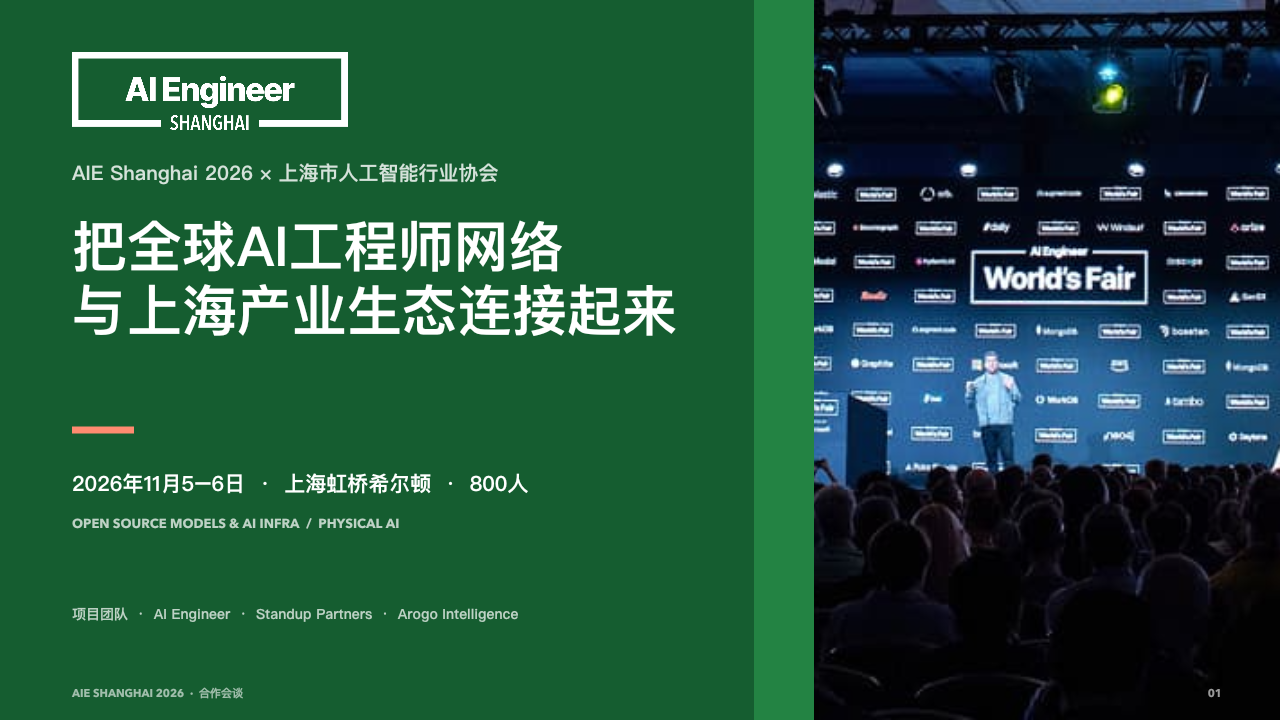
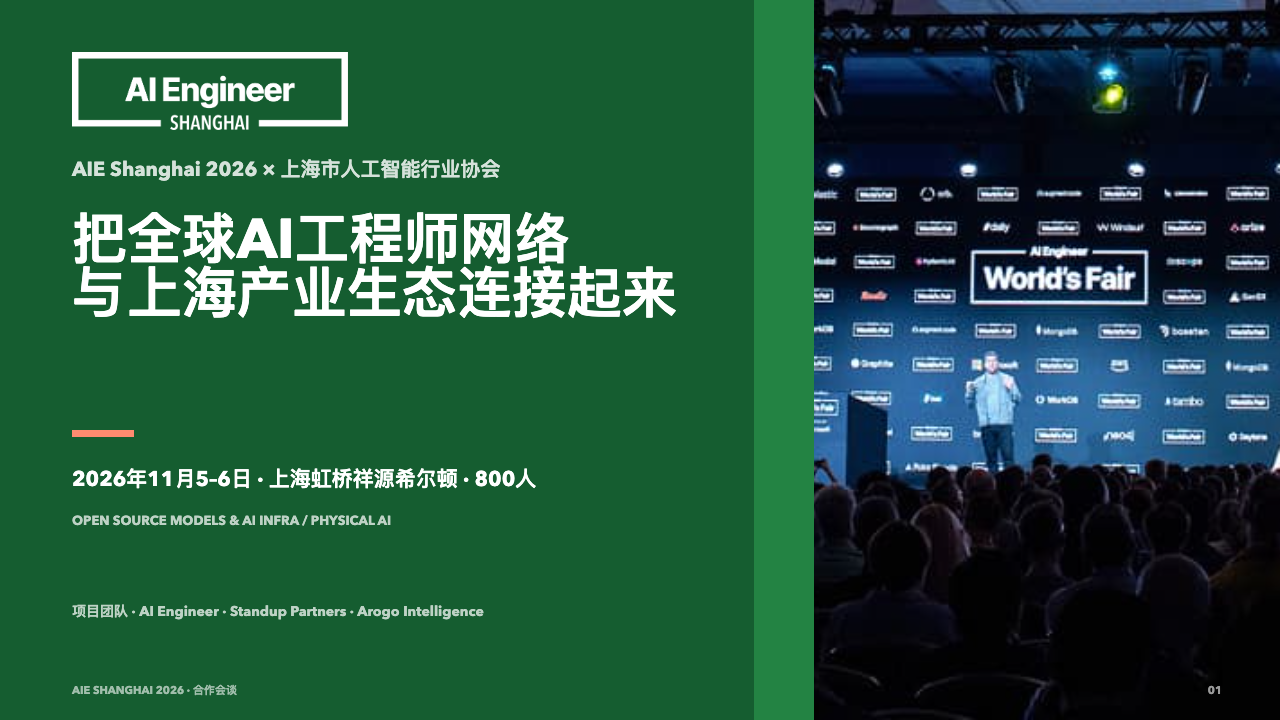
Address partner feedback in AIE Shanghai deck

diff --git a/client/src/pages/AieShanghaiDeckSlides.tsx b/client/src/pages/AieShanghaiDeckSlides.tsx
@@ -30,9 +30,10 @@ const FONT =
 export const SLIDE_META = [
   "把全球AI工程师网络与上海产业生态连接起来",
   "上海站由三组长期积累共同推进",
-  "孟颖、Yuzheng和Jolin各自负责一块不可替代的工作",
+  "李孟颖、孙煜征和盛玥各自负责一块不可替代的工作",
   "AIE把工程师、研究者、创始人与CTO带到同一个技术现场",
   "上海站不是一场海外会议的平移",
+  "不只把全球资源带进来，也帮助中国AI企业走向全球",
   "在协会已有平台上，再增加一层高密度工程实践交流",
   "上海站已启动，并进入更深的本地协作阶段",
   "合作方案应该从协会会员企业的真实需求出发",
@@ -265,7 +266,7 @@ function Slide01() {
       </Text>
       <Rule x={72} y={430} w={62} h={7} color={C.coral} />
       <Text x={72} y={468} w={650} h={32} size={21} color={C.white} weight={700}>
-        2026年11月5–6日  ·  上海虹桥希尔顿  ·  800人
+        2026年11月5–6日  ·  上海虹桥祥源希尔顿  ·  800人
       </Text>
       <Text x={72} y={514} w={650} h={24} size={13} color="rgba(255,255,255,.72)" weight={700}>
         OPEN SOURCE MODELS & AI INFRA  /  PHYSICAL AI
@@ -317,7 +318,7 @@ function TeamColumn({ x, name, identity, proof, role, color }: { x: number; name
   return (
     <div>
       <Rect x={x} y={190} w={340} h={8} color={color} />
-      <Text x={x} y={222} w={340} h={42} size={29} color={C.ink} weight={700}>{name}</Text>
+      <Text x={x} y={222} w={340} h={42} size={24} color={C.ink} weight={700}>{name}</Text>
       <Text x={x} y={274} w={340} h={52} size={17} color={color} weight={700} lineHeight={1.22}>{identity}</Text>
       <Rule x={x} y={340} w={340} />
       <Text x={x} y={368} w={340} h={126} size={19} color={C.body} lineHeight={1.28}>{proof}</Text>
@@ -330,10 +331,10 @@ function TeamColumn({ x, name, identity, proof, role, color }: { x: number; name
 function Slide03() {
   return (
     <SlideShell page={3} section="02  /  CORE TEAM">
-      <SlideTitle size={43}>孟颖、Yuzheng和Jolin，各自负责一块不可替代的工作</SlideTitle>
-      <TeamColumn x={72} name="李孟颖  Mengying Li" identity="增长 · 数据 · 商业化" proof="曾在Notion、MotherDuck、Braintrust等科技公司负责增长与数据；长期服务developer tools与B2B SaaS，也是a16z Scout和天使投资人。" role="AIE Shanghai：国际增长、赞助商合作、数据与商业化机制" color={C.brand} />
-      <TeamColumn x={470} name="孙煜征  Yuzheng Sun" identity="PROGRAM · 技术内容 · 中美连接" proof="曾任Amazon经济学家、Meta数据科学家、腾讯IEG数据与AI副总监；OpenAI收购团队早期成员；现为Superlinear Academy创始人。" role="AIE Shanghai：program方向、内容判断、技术嘉宾与开发者社区连接" color={C.deep} />
-      <TeamColumn x={868} name="Jolin  ·  Arogo" identity="上海产业合作 · 项目落地" proof="13年微软中国工作经历，覆盖解决方案销售、企业客户与总裁办公室业务运营；组织过多次2,000+人大型活动。" role="AIE Shanghai：本地企业与产业合作、高层沟通、会务与落地" color={C.coral} />
+      <SlideTitle size={43}>李孟颖、孙煜征和盛玥，各自负责一块不可替代的工作</SlideTitle>
+      <TeamColumn x={72} name="李孟颖 · Standup Partners" identity="增长 · 数据 · 商业化" proof="曾在Notion、MotherDuck、Braintrust等科技公司负责增长与数据；长期服务developer tools与B2B SaaS，也是a16z Scout和天使投资人。" role="AIE Shanghai：国际增长、赞助商合作、数据与商业化机制" color={C.brand} />
+      <TeamColumn x={470} name="孙煜征 · Standup Partners" identity="PROGRAM · 技术内容 · 中美连接" proof="曾任Amazon经济学家、Meta数据科学家、腾讯IEG数据与AI副总监；OpenAI收购团队早期成员；现为Superlinear Academy创始人。" role="AIE Shanghai：program方向、内容统筹、技术嘉宾与开发者社区连接" color={C.deep} />
+      <TeamColumn x={868} name="盛玥 · Arogo Intelligence" identity="上海产业合作 · 项目落地" proof="13年微软中国工作经历，曾担任解决方案销售、企业客户经理，并负责总裁办公室业务运营；组织过多次2,000+人大型活动。" role="AIE Shanghai：本地企业与产业合作、高层沟通、会务与落地" color={C.coral} />
     </SlideShell>
   );
 }
@@ -380,24 +381,55 @@ function Slide05() {
       <Text x={72} y={86} w={1136} h={76} size={51} color={C.white} weight={700} lineHeight={1.02}>上海站不是一场海外会议的平移</Text>
       <Rule x={640} y={208} w={2} h={280} color="rgba(255,255,255,.35)" />
       <Rect x={633} y={337} w={16} h={16} color={C.coral} />
-      <Text x={92} y={220} w={460} h={34} size={21} color="rgba(255,255,255,.72)" weight={700}>中国团队带到现场</Text>
+      <Text x={92} y={220} w={460} h={34} size={21} color="rgba(255,255,255,.72)" weight={700}>中国工程师带来的实践</Text>
       <Text x={92} y={274} w={460} h={212} size={34} color={C.white} weight={700} lineHeight={1.22}>{"产业条件与算力\n数据、评测与场景\n规模化部署经验\n快速演进的应用生态"}</Text>
-      <Text x={724} y={220} w={460} h={34} size={21} color="rgba(255,255,255,.72)" weight={700}>国际团队带到现场</Text>
+      <Text x={724} y={220} w={460} h={34} size={21} color="rgba(255,255,255,.72)" weight={700}>国际工程师带来的实践</Text>
       <Text x={724} y={274} w={460} h={212} size={34} color={C.white} weight={700} lineHeight={1.22}>{"模型、推理与架构\n开发者工具与平台\n生产系统可靠性\n全球工程师同行网络"}</Text>
       <Rect x={72} y={540} w={1136} h={88} color={C.deep} />
-      <Text x={104} y={558} w={1072} h={52} size={29} color={C.white} weight={700} align="center" valign="center">让中西方团队围绕同一组工程问题，面对面展示、比较与追问。</Text>
+      <Text x={104} y={558} w={1072} h={52} size={29} color={C.white} weight={700} align="center" valign="center">让中西方工程师围绕同一组工程问题，面对面展示、比较与追问。</Text>
     </SlideShell>
   );
 }
 
 function Slide06() {
+  const paths = [
+    { x: 72, number: "01", title: "直接接触全球网络", body: "与模型、AI基础设施、开发者平台和Physical AI企业的技术负责人同场交流。", color: C.brand },
+    { x: 367, number: "02", title: "延伸技术与商业合作", body: "从工程讨论出发，连接潜在的海外客户、合作伙伴、投资机构与开发者社区。", color: C.deep },
+    { x: 662, number: "03", title: "理解全球市场", body: "更直接地理解开发者生态、技术标准、商业模式与产业协作方式。", color: C.coral },
+    { x: 957, number: "04", title: "形成长期连接", body: "借助AIE的内容传播与全球会议网络，让上海现场延伸为持续关系。", color: C.brand },
+  ];
+
+  return (
+    <SlideShell page={6} section="05  /  TWO-WAY VALUE">
+      <SlideTitle size={42}>不只把全球资源带进来，也帮助中国AI企业走向全球</SlideTitle>
+      <Text x={72} y={164} w={1136} h={54} size={21} color={C.body} lineHeight={1.24}>
+        从一次现场交流开始，延伸到技术合作、商业拓展、全球市场理解与长期关系。
+      </Text>
+      <Rule x={86} y={286} w={1090} h={3} color={C.line} />
+      {paths.map(path => (
+        <div key={path.number}>
+          <Text x={path.x} y={232} w={250} h={24} size={14} color={path.color} weight={700}>{path.number}</Text>
+          <Rect x={path.x} y={277} w={20} h={20} color={path.color} radius={10} />
+          <Text x={path.x} y={324} w={250} h={60} size={24} color={C.ink} weight={700} lineHeight={1.15}>{path.title}</Text>
+          <Text x={path.x} y={398} w={250} h={118} size={18} color={C.body} lineHeight={1.3}>{path.body}</Text>
+        </div>
+      ))}
+      <Rect x={72} y={556} w={1136} h={76} color={C.pale} />
+      <Text x={100} y={574} w={1080} h={40} size={28} color={C.deep} weight={700} align="center" valign="center">
+        “带进来”和“走出去”，在同一个工程师网络里发生。
+      </Text>
+    </SlideShell>
+  );
+}
+
+function Slide07() {
   const rows = [
     { y: 204, label: "WAIC", title: "全球产业、战略、治理与政产学研广度", detail: "让上海成为全球人工智能产业与治理的重要交流平台", color: C.deep },
-    { y: 330, label: "GDC", title: "开发者生态、前沿探索与社区倡议", detail: "连接开发者、开源项目、青年人才与创新实践", color: C.brand },
+    { y: 330, label: "GDPS", title: "开发者生态、前沿探索与社区倡议", detail: "连接开发者、开源项目、青年人才与创新实践", color: C.brand },
     { y: 456, label: "AIE SHANGHAI", title: "高密度工程实践、准备充分的stage talk与全球内容传播", detail: "在800人规模里深入生产系统、技术判断、demo与failure case", color: C.coral },
   ];
   return (
-    <SlideShell page={6} section="05  /  COMPLEMENTARY POSITIONING">
+    <SlideShell page={7} section="06  /  COMPLEMENTARY POSITIONING">
       <SlideTitle size={42}>在协会已有平台上，再增加一层高密度工程实践交流</SlideTitle>
       {rows.map(row => (
         <div key={row.label}>
@@ -413,28 +445,30 @@ function Slide06() {
   );
 }
 
-function Slide07() {
+function Slide08() {
   return (
-    <SlideShell page={7} section="06  /  CURRENT PROGRESS">
+    <SlideShell page={8} section="07  /  CURRENT PROGRESS">
       <SlideTitle size={44}>上海站已启动，并进入更深的本地协作阶段</SlideTitle>
       <Text x={72} y={190} w={96} h={30} size={14} color={C.coral} weight={700}>EVENT</Text>
-      <Text x={72} y={228} w={510} h={92} size={27} color={C.ink} weight={700} lineHeight={1.26}>{"11月5–6日  ·  上海虹桥希尔顿\n800人  ·  中英双语现场"}</Text>
+      <Text x={72} y={228} w={510} h={92} size={27} color={C.ink} weight={700} lineHeight={1.26}>{"11月5–6日  ·  上海虹桥祥源希尔顿\n800人  ·  中英双语现场"}</Text>
       <Rule x={72} y={342} w={510} />
       <Text x={72} y={374} w={230} h={72} size={64} color={C.brand} weight={700}>20+</Text>
       <Text x={214} y={407} w={280} h={34} size={23} color={C.ink} weight={700}>位已确认嘉宾</Text>
       <Text x={72} y={472} w={230} h={72} size={64} color={C.deep} weight={700}>7</Text>
       <Text x={178} y={505} w={320} h={34} size={23} color={C.ink} weight={700}>家已确认赞助合作方</Text>
-      <Text x={72} y={574} w={510} h={54} size={16} color={C.muted} lineHeight={1.22}>已确认嘉宾来自World Labs、Cursor、Vercel、Kimi等团队；公开名单以最终官宣为准。</Text>
+      <Text x={72} y={564} w={510} h={54} size={16} color={C.muted} lineHeight={1.22}>已确认嘉宾来自World Labs、Cursor、Vercel、Kimi等团队；公开名单以最终官宣为准。</Text>
       <ImageAsset src="launch.png" alt="AI Engineer Shanghai 2026官方发布图" x={632} y={178} w={576} h={324} />
-      <Rect x={632} y={530} w={276} h={98} color={C.pale} />
-      <Text x={654} y={548} w={232} h={64} size={18} color={C.deep} weight={700} lineHeight={1.18}>{"TRACK A\nOpen Source Models & AI Infra"}</Text>
-      <Rect x={932} y={530} w={276} h={98} color="#FFF0EB" />
-      <Text x={954} y={548} w={232} h={64} size={18} color="#8B4638" weight={700} lineHeight={1.18}>{"TRACK B\nPhysical AI"}</Text>
+      <Rect x={632} y={524} w={276} h={88} color={C.pale} />
+      <Text x={654} y={540} w={232} h={60} size={18} color={C.deep} weight={700} lineHeight={1.18}>{"TRACK A\nOpen Source Models & AI Infra"}</Text>
+      <Rect x={932} y={524} w={276} h={88} color="#FFF0EB" />
+      <Text x={954} y={540} w={232} h={60} size={18} color="#8B4638" weight={700} lineHeight={1.18}>{"TRACK B\nPhysical AI"}</Text>
+      <Rect x={72} y={630} w={1136} h={38} color={C.pale} />
+      <Text x={92} y={639} w={1096} h={20} size={14} color={C.deep} weight={700} align="center">活动落地执行由安锐提供支持；安锐曾服务Microsoft、Google、AWS等企业活动，项目也与相关AI及开发者社区联动。</Text>
     </SlideShell>
   );
 }
 
-function Slide08() {
+function Slide09() {
   const questions = [
     { x: 72, y: 210, number: "01", title: "今年优先项", body: "在协会今年的企业服务、国际合作与开发者活动中，AIE Shanghai最能补上哪一块？" },
     { x: 658, y: 210, number: "02", title: "会员企业匹配", body: "围绕两条track，哪些企业最能代表上海正在发生的技术进展？" },
@@ -442,7 +476,7 @@ function Slide08() {
     { x: 658, y: 390, number: "04", title: "合作与审批机制", body: "合作称谓、官方渠道、定向邀约与国际合作，各自需要怎样的流程和排期？" },
   ];
   return (
-    <SlideShell page={8} section="07  /  LISTEN FIRST" background={C.deep} dark>
+    <SlideShell page={9} section="08  /  LISTEN FIRST" background={C.deep} dark>
       <Text x={72} y={86} w={1136} h={90} size={47} color={C.white} weight={700} lineHeight={1.02}>合作方案应该从协会会员企业的真实需求出发</Text>
       {questions.map(question => (
         <div key={question.number}>
@@ -458,11 +492,11 @@ function Slide08() {
   );
 }
 
-function Slide09() {
-  const association = ["确认协办单位 / 生态合作伙伴称谓及审批路径", "通过官方公众号、会员群与定向通知触达企业", "围绕两条track推荐会员企业与3–5位技术人选", "共同确认渠道排期与会员福利的对外口径"];
-  const aie = ["协会会员专属8折票务福利，适用范围待确认", "为入选内容提供专业录制与会后全球传播", "提供经审批的宣传素材、专属链接与使用报告", "在容量内安排选择性的国际嘉宾 / 产业交流"];
+function Slide10() {
+  const association = ["确认协办单位 / 生态合作伙伴称谓及审批路径", "通过官方公众号、会员群与定向通知触达企业", "围绕两条track推荐会员企业与3–5位技术人选", "共同确认公众号、会员群的发布时间与会员专属票务福利"];
+  const aie = ["协会会员专属8折票务福利，适用范围待确认", "为入选内容提供专业录制与会后全球传播", "提供经审批的宣传素材、专属链接与使用报告", "在嘉宾同意且闭门晚宴有席位的前提下，邀请部分协会代表参与定向交流"];
   return (
-    <SlideShell page={9} section="08  /  FIRST COOPERATION PACKAGE">
+    <SlideShell page={10} section="09  /  FIRST COOPERATION PACKAGE">
       <SlideTitle size={43}>双方先从一个边界清楚、能执行的合作包开始</SlideTitle>
       <Text x={72} y={190} w={520} h={34} size={20} color={C.brand} weight={700}>协会可以提供</Text>
       <Text x={668} y={190} w={520} h={34} size={20} color={C.deep} weight={700}>AIE Shanghai可以提供</Text>
@@ -475,23 +509,23 @@ function Slide09() {
   );
 }
 
-function Slide10() {
-  const decisions = [["01", "合作称谓与审批路径"], ["02", "双方各1位日常执行联系人"], ["03", "第一批目标企业与3–5位技术人选"], ["04", "渠道排期、会员福利与商务规则"]];
-  const owners = [["Mengying", "AIE授权、国际合作、赞助与公开名单"], ["Jolin / Arogo", "协会接口、上海产业合作与项目落地"], ["Yuzheng", "program、内容判断与高价值技术连接"], ["高宁团队BD owner", "合同、票务、折扣码与商务往返"]];
+function Slide11() {
+  const decisions = [["01", "合作称谓与审批路径"], ["02", "双方各1位日常执行联系人"], ["03", "第一批目标企业与3–5位技术人选"], ["04", "公众号 / 会员群发布时间与会员专属票务福利"]];
+  const owners = [["李孟颖", "AIE授权、国际合作、赞助商与公开名单"], ["盛玥", "协会对接、上海产业合作与活动落地"], ["孙煜征", "议程设计、内容统筹与高价值技术连接"]];
   return (
-    <SlideShell page={10} section="09  /  DECISION & NEXT STEP" background={C.deep} dark>
+    <SlideShell page={11} section="10  /  DECISION & NEXT STEP" background={C.deep} dark>
       <Text x={72} y={86} w={1136} h={82} size={50} color={C.white} weight={700} lineHeight={1.02}>先确认四件事，再用一周跑通第一轮</Text>
       {decisions.map((decision, index) => { const y = 212 + index * 78; return <div key={decision[0]}><Text x={82} y={y} w={62} h={38} size={20} color={C.coral} weight={700} valign="center">{decision[0]}</Text><Text x={158} y={y} w={514} h={38} size={25} color={C.white} weight={700} valign="center">{decision[1]}</Text><Rule x={82} y={y + 50} w={590} color="rgba(255,255,255,.22)" /></div>; })}
       <Rect x={720} y={202} w={488} h={338} color={C.brand} />
-      <Text x={750} y={226} w={428} h={26} size={15} color="rgba(255,255,255,.7)" weight={700}>PROJECT OWNERS</Text>
-      {owners.map((owner, index) => { const y = 274 + index * 64; return <div key={owner[0]}><Text x={750} y={y} w={158} h={24} size={17} color={C.white} weight={700}>{owner[0]}</Text><Text x={920} y={y} w={258} h={42} size={15} color="rgba(255,255,255,.82)" lineHeight={1.18}>{owner[1]}</Text></div>; })}
+      <Text x={750} y={226} w={428} h={26} size={15} color="rgba(255,255,255,.7)" weight={700}>项目分工</Text>
+      {owners.map((owner, index) => { const y = 286 + index * 86; return <div key={owner[0]}><Text x={750} y={y} w={128} h={30} size={20} color={C.white} weight={700}>{owner[0]}</Text><Text x={892} y={y} w={286} h={54} size={17} color="rgba(255,255,255,.84)" lineHeight={1.22}>{owner[1]}</Text></div>; })}
       <Rect x={72} y={582} w={1136} h={58} color={C.canvas} />
       <Text x={96} y={598} w={1088} h={28} size={25} color={C.deep} weight={700} align="center">跑通第一轮，再决定如何扩大。</Text>
     </SlideShell>
   );
 }
 
-const SLIDES = [Slide01, Slide02, Slide03, Slide04, Slide05, Slide06, Slide07, Slide08, Slide09, Slide10] as const;
+const SLIDES = [Slide01, Slide02, Slide03, Slide04, Slide05, Slide06, Slide07, Slide08, Slide09, Slide10, Slide11] as const;
 
 export function NativeSlide({ index }: { index: number }) {
   const Component = SLIDES[index] ?? Slide01;

diff --git a/shared/deck-index.ts b/shared/deck-index.ts
@@ -106,8 +106,8 @@ export const DECK_LIBRARY: DeckEntry[] = [
       zh: "产业协会、技术企业与生态合作方",
     },
     takeaway: {
-      en: "Introduce the joint operating team, explain how AIE complements Shanghai's existing AI platforms, and define a focused first cooperation package with the association.",
-      zh: "介绍共同运营团队，说明AIE如何补充上海已有的AI产业与开发者平台，并与协会确认一个边界清楚的首轮合作包。",
+      en: "Introduce the joint operating team, show how AIE creates a two-way bridge between Shanghai and the global AI engineering network, and define a focused first cooperation package with the association.",
+      zh: "介绍共同运营团队，说明AIE如何让全球工程资源进入上海、也帮助中国AI企业连接国际市场，并与协会确认一个边界清楚的首轮合作包。",
     },
     href: "https://www.lizheng.ai/decks/aie-shanghai-2026",
     linkKind: "deck",

diff --git a/shared/page-meta.ts b/shared/page-meta.ts
@@ -137,7 +137,7 @@ export const DECKS_LANGUAGE_ALTERNATES: LanguageAlternate[] = [
 export const AIE_SHANGHAI_DECK_PAGE_META: PageMeta = {
   title: "AIE Shanghai 2026｜上海市人工智能行业协会合作会谈",
   description:
-    "AI Engineer Shanghai 2026合作会谈材料：介绍共同运营团队、AIE与上海站，以及与上海市人工智能行业协会的首轮合作方案。",
+    "AI Engineer Shanghai 2026合作会谈材料：介绍共同运营团队、上海与全球AI工程网络的双向连接，以及与上海市人工智能行业协会的首轮合作方案。",
   canonical: "https://www.lizheng.ai/decks/aie-shanghai-2026",
   ogImage:
     "https://www.lizheng.ai/decks/aie-shanghai-2026/assets/og.png",

diff --git a/shared/structured-data.ts b/shared/structured-data.ts
@@ -485,7 +485,7 @@ export function buildAieShanghaiDeckStructuredData() {
             "https://schema.org/OfflineEventAttendanceMode",
           location: {
             "@type": "Place",
-            name: "上海虹桥希尔顿",
+            name: "上海虹桥祥源希尔顿",
             address: {
               "@type": "PostalAddress",
               addressLocality: "上海",
